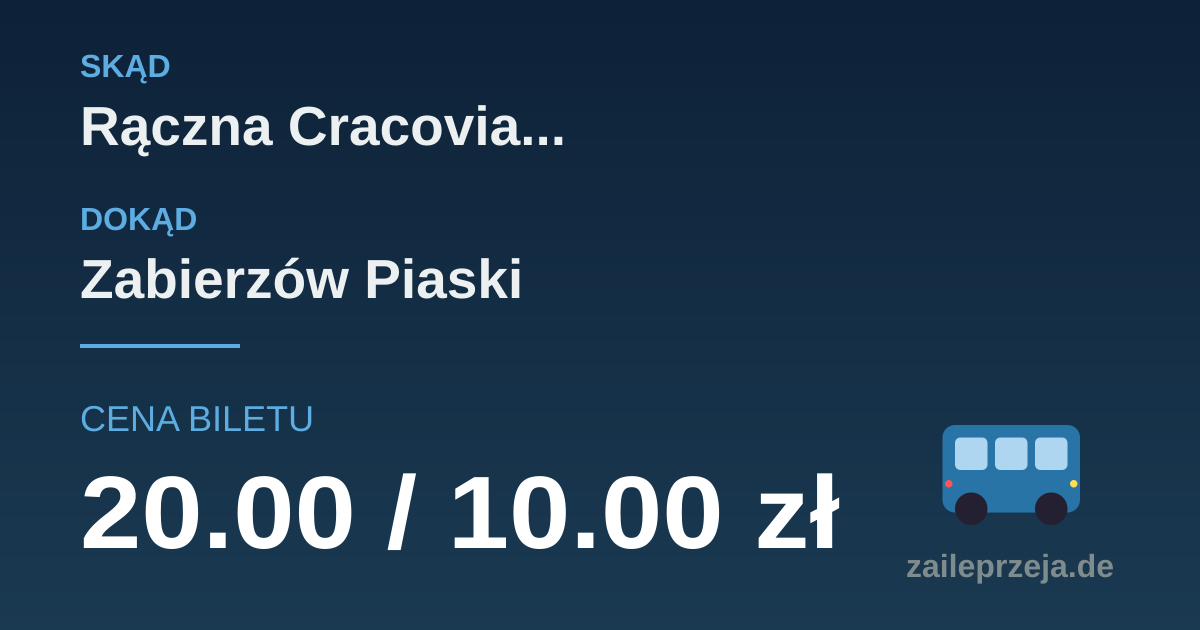
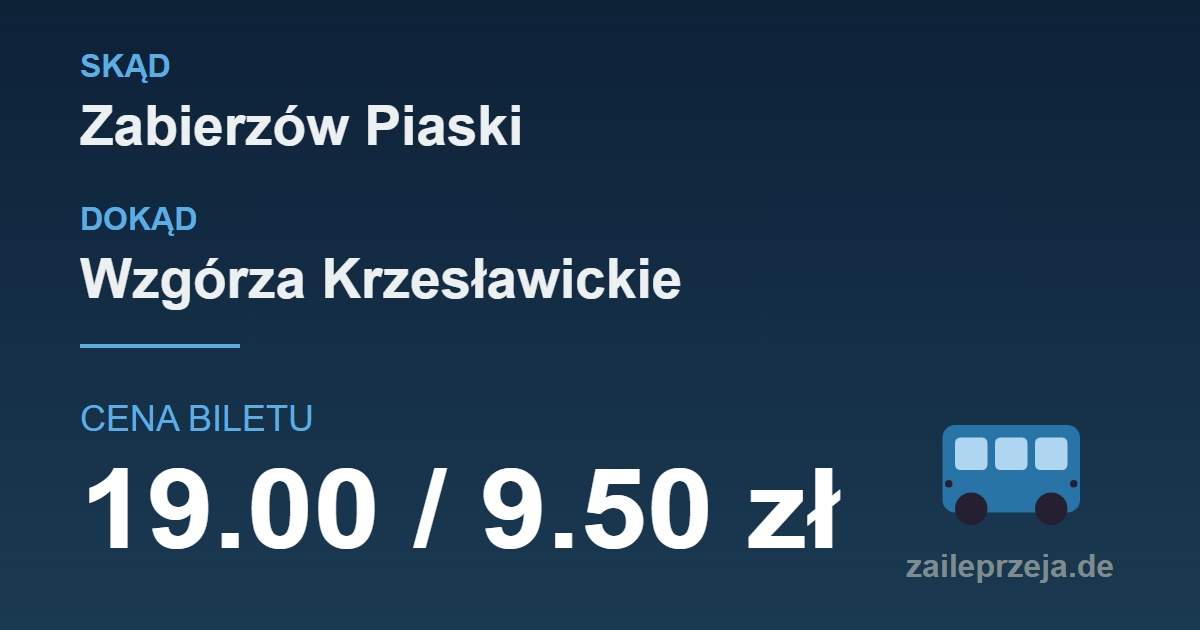
1.9.0: refresh OG previews, cancel min-ride BFS on timeout

diff --git a/server/pathfinding.py b/server/pathfinding.py
@@ -959,8 +959,12 @@ def _min_ride_route(start_ids, end_ids, max_rides=20):
 
     visited = set(frontier)
     for _level in range(max_rides):
+        if _check_cancelled():
+            return None
         next_frontier = []
         for arrival in frontier:
+            if _check_cancelled():
+                return None
             # Walks inside the stop group are free: every platform of the
             # component is a valid boarding point for the next ride.
             for board in _walk_platforms(arrival):

diff --git a/README.md b/README.md
@@ -37,9 +37,9 @@ Aplikacja pokazuje połączenia pomiędzy dwoma wybranymi przystankami w **dwóc
 
 Aplikacja automatycznie generuje obrazki OG w sposób dynamiczny dla danej trasy.
 
-| Typowa cena | Cena na limicie 24-godzinnym |
+| Typowa cena | Dłuższa trasa |
 |---|---|
-| ![Typowa](previews/og-preview-typical.png) | ![Max](previews/og-preview-max.png) |
+| ![Typowa](previews/og-preview-typical.png) | ![Dłuższa](previews/og-preview-max.png) |
 
 ## Wyszukiwanie tras
 
